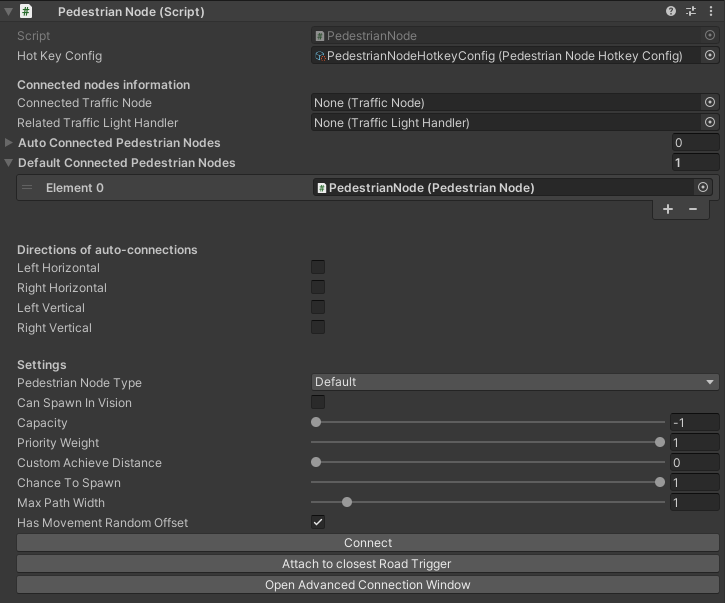
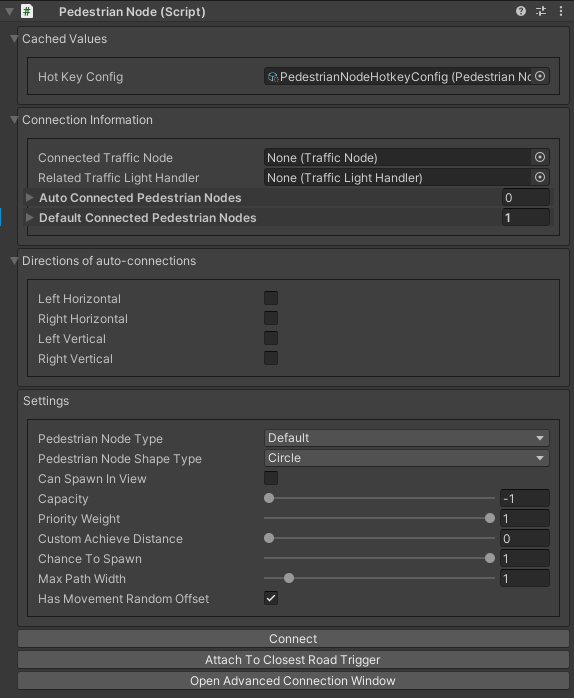
up

diff --git a/docs/source/pedestrianNode.rst b/docs/source/pedestrianNode.rst
@@ -19,11 +19,11 @@ How To Create
 Pedestrian Node
 ----------------
 
-``Pedestrian node is a node for creating pedestrian routes``
+`Pedestrian node` is a node for creating :ref:`pedestrian <pedestrianEntity>` route.
 
 	.. image:: /images/road/pedestrianNode/PedestrianNode.png
 	
-Connected data
+Connection Data
 ~~~~~~~~~~~~
 
 | **Connected traffic node** : connect traffic node (for parking).
@@ -87,7 +87,7 @@ Idle
 Node for temporary idling pedestrians (:ref:`test scene <pedestrianHouseTest>`).
 
 	.. note:: 
-		* To set a custom idle time at the node, add the `PedestrianNodeIdleAuthoring` component.
+		* To set a custom idle time at the node, add the `PedestrianNodeIdleSettings` component.
 		* .. image:: /images/road/pedestrianNode/PedestrianNodeIdleAuthoring.png
 
 Car parking
@@ -143,12 +143,18 @@ Node for entering :ref:`public transport <trafficPublic>`.
 Common Settings
 ~~~~~~~~~~~~
 
+**Shape type** : shape of the area for randomization of :ref:`pedestrian <pedestrianEntity>` targets.
+	* **Circle**
+	* **Square** 
+	* **Rectangle**
+
 | **Can spawn in view** : can spawn in view of camera or not.
 | **Capacity** : -1 value is unlimited; Capacity for objects like benchs, houses, public stop stations etc...
-| **Priority weight** : weight for choosing random node by pedestrian.
-| **Custom achieve distance** : custom achieve distance for pedestrian. If 0 then default value is taken.
-| **Chance to spawn** : chance to spawn pedestrian at node [0 = 0%, 1 = 100%].
+| **Priority weight** : weight for choosing random node by :ref:`pedestrian <pedestrianEntity>`.
+| **Custom achieve distance** : custom achieve distance for :ref:`pedestrian <pedestrianEntity>`. If 0 then default value is taken.
+| **Chance to spawn** : chance to spawn :ref:`pedestrian <pedestrianEntity>` at node [0 = 0%, 1 = 100%].
 | **Max path width** : maximum width of the route around the node.
+| **Height** : maximum height size of the node area (square and rectangle shapes only).
 | **Has movement random offset** : are supposed to randomize the position around a node.
 		
 Buttons

diff --git a/docs/source/trafficPublicRoute.rst b/docs/source/trafficPublicRoute.rst
@@ -12,7 +12,7 @@ How To Create
 #. Connect created segments by :ref:`paths <path>`.
 #. Create empty `GameObject` and add :ref:`TrafficPublicRoute <trafficPublicRouteComponent>` component.
 #. Enable :ref:`Show path selection buttons <trafficPublicRouteSceneSettings>` option.
-#. Sequentially select each :ref:`path <path>` of the route (how to make a :ref:`lane change <trafficPublicRouteHowToCreateTransition>`).
+#. Sequentially select each :ref:`path <path>` of the route (also you make a :ref:`lane change <trafficPublicRouteHowToCreateTransition>`).
 
 	.. image:: /images/road/PublicRoute/PublicRouteExample2.png
 	`Selection route example.`
